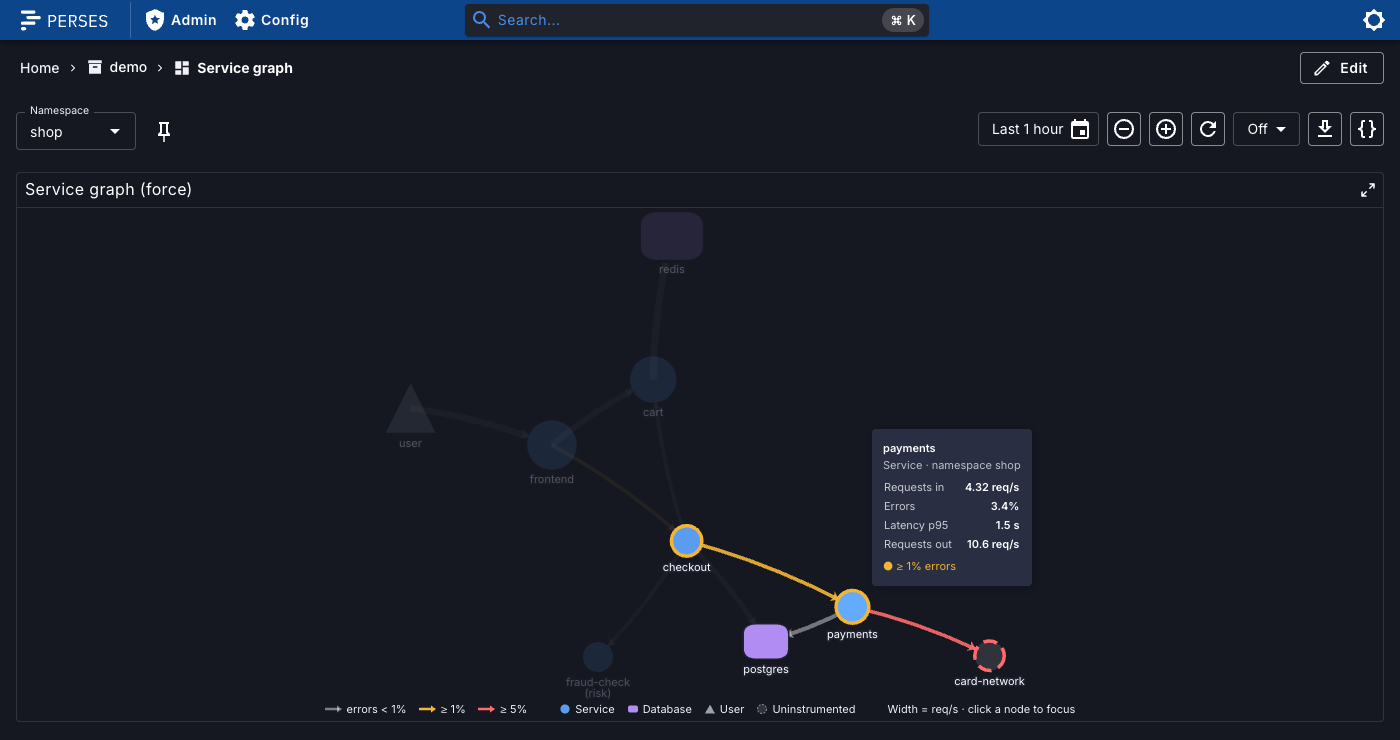
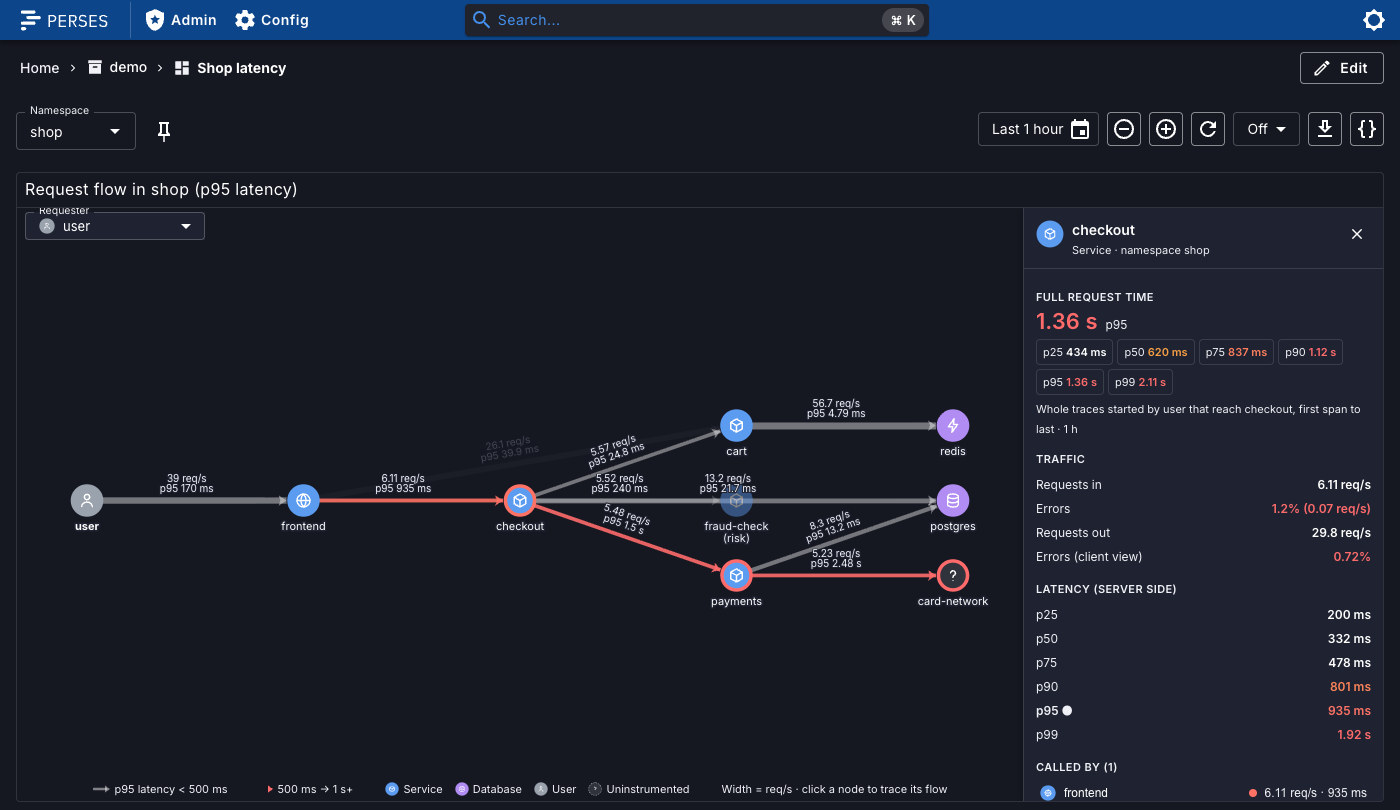
feat: keep the picked requester in the URL; refresh screenshots (#5)
The requester picker writes ?requester=<name> (* for All flows) with
history.replaceState and tells the router with a popstate, so Perses'
own URL updates (time range, refresh, variables) keep it. A reload or a
shared link opens the same flow. A changed root variable still resets
it, but only once data has loaded, so resolving variables on page load
does not drop a requester from the URL.

README screenshots now show the details panel, full request time and
same-size nodes. Version 0.5.0.

Claude-Session: https://claude.ai/code/session_01KRYPqj99R9GT2bUSNZUb83

diff --git a/src/panels/service-graph-chart/ServiceGraphChartComponent.tsx b/src/panels/service-graph-chart/ServiceGraphChartComponent.tsx
@@ -1,4 +1,11 @@
-import { ReactElement, useCallback, useEffect, useMemo, useState } from "react";
+import {
+  ReactElement,
+  useCallback,
+  useEffect,
+  useMemo,
+  useRef,
+  useState,
+} from "react";
 import {
   Box,
   MenuItem,
@@ -57,9 +64,28 @@ export function ServiceGraphChartComponent(
   const { results, isLoading, error, namespacePattern, rootPattern } =
     useServiceGraphData(spec, o);
 
-  // The requester picked in the panel; undefined follows the spec's `root` (usually a variable).
-  const [picked, setPicked] = useState<string | undefined>();
-  useEffect(() => setPicked(undefined), [rootPattern]);
+  // The requester picked in the panel; undefined follows the spec's `root` (usually a variable). It is
+  // kept in the URL, so a reload or a shared link opens the same flow.
+  const [picked, setPickedState] = useState<string | undefined>(
+    readRequesterParam,
+  );
+  const setPicked = useCallback((v: string | undefined): void => {
+    const next = v === ROOT_PATTERN ? undefined : v;
+    setPickedState(next);
+    writeRequesterParam(next);
+  }, []);
+  // A changed `root` (the variable) starts over from it. Only once data has loaded: until then the
+  // variables are still resolving, and that must not drop a requester the URL brought.
+  const settledRoot = useRef<string | undefined>();
+  useEffect(() => {
+    if (!results) return;
+    if (
+      settledRoot.current !== undefined &&
+      settledRoot.current !== rootPattern
+    )
+      setPicked(undefined);
+    settledRoot.current = rootPattern;
+  }, [results, rootPattern, setPicked]);
   const flowPattern =
     picked === undefined
       ? rootPattern
@@ -380,6 +406,31 @@ function RequesterPicker({
         );
       })}
     </TextField>
+  );
+}
+
+/** URL query parameter holding the picked requester; `*` is "All flows". */
+const REQUESTER_PARAM = "requester";
+
+function readRequesterParam(): string | undefined {
+  const v = new URLSearchParams(window.location.search).get(REQUESTER_PARAM);
+  if (!v) return undefined;
+  return v === "*" ? ALL_FLOWS : v;
+}
+
+/**
+ * Replaces the current history entry, keeping its state and every other parameter. The `popstate`
+ * tells the app's router about the new URL; without it, the next time range or variable change
+ * rebuilds the URL from the router's copy and drops the parameter.
+ */
+function writeRequesterParam(v: string | undefined): void {
+  const url = new URL(window.location.href);
+  if (v === undefined) url.searchParams.delete(REQUESTER_PARAM);
+  else url.searchParams.set(REQUESTER_PARAM, v === ALL_FLOWS ? "*" : v);
+  if (url.href === window.location.href) return;
+  window.history.replaceState(window.history.state, "", url);
+  window.dispatchEvent(
+    new PopStateEvent("popstate", { state: window.history.state }),
   );
 }
 

diff --git a/README.md b/README.md
@@ -8,9 +8,9 @@ the OpenTelemetry Collector
 Nodes are services and edges are requests between them. Both show request rate, error ratio and
 latency, and the graph can be limited to one Kubernetes namespace.
 
-![Dark theme, force layout, tooltip on payments with its neighbours highlighted](docs/service-graph-dark.png)
+![Dark theme, hierarchical flow from user coloured by p95 latency, details panel open on checkout with its full request time](docs/service-graph-dark.png)
 
-| Light theme, hierarchical layout, p95 latency | Panel editor |
+| Light theme, force layout, tooltip on payments with its flow highlighted | Panel editor |
 | --- | --- |
 | ![Light theme](docs/service-graph-light.png) | ![Settings editor](docs/settings-editor.png) |
 
@@ -20,7 +20,7 @@ The screenshots use synthetic data for a demo namespace, `shop`.
 
 | Plugin | Perses | Status |
 | --- | --- | --- |
-| 0.1.x – 0.3.x | v0.54.x | Tested with v0.54.0 |
+| 0.1.x – 0.5.x | v0.54.x | Tested with v0.54.0 |
 
 The plugin is built against `@perses-dev/*` 0.54 and `percli` v0.54.0. Other Perses minor versions may
 work but are not tested; see [Why ECharts](#why-echarts) for the part most likely to break.
@@ -60,7 +60,9 @@ work but are not tested; see [Why ECharts](#why-echarts) for the part most likel
   flow from it: the calls it makes, then the calls those lead to, down to the last hop. The requester
   is the only source, in the first column, in bold. **All flows** draws everything. The picker starts
   at `root` (a name, a regex, or a variable such as `$root`) and follows it when that changes;
-  `showRequesterPicker: false` hides it.
+  `showRequesterPicker: false` hides it. The pick is kept in the URL as `?requester=<name>`
+  (`requester=*` for **All flows**), so a reload or a shared link opens the same flow; every panel on
+  the dashboard reads the same parameter.
 - **Layouts:** force-directed, or hierarchical from left (entry points) to right (leaves).
   Disconnected parts of the graph are laid out separately and stacked, largest first. Both layouts are
   deterministic, so the graph does not jump between refreshes.

diff --git a/CHANGELOG.md b/CHANGELOG.md
@@ -4,6 +4,18 @@ All notable changes to this project are documented here. The format follows
 [Keep a Changelog](https://keepachangelog.com/en/1.1.0/), and versions follow
 [Semantic Versioning](https://semver.org/).
 
+## [0.5.0] - 2026-11-13
+
+### Added
+
+- The requester picked in the panel is kept in the URL (`?requester=<name>`, `*` for All flows), so
+  a reload or a shared link opens the same flow. Changing the `root` variable still starts over
+  from it.
+
+### Changed
+
+- README screenshots show the details panel, full request time and same-size nodes.
+
 ## [0.4.0] - 2026-11-13
 
 ### Added
